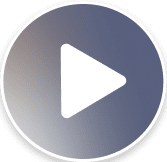
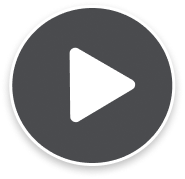
commit

diff --git a/index.html b/index.html
@@ -30,28 +30,32 @@
                 </h2>
                 <div class="tasks__list">
                     <a href="#task-1" class="tasks__list-item task__card">
-                        <img class="task__card-photo" src="img/promo/tasks/01.svg" alt="">
+                        <img class="task__card-photo unactive" src="img/promo/tasks/01.svg" alt="">
+                        <img class="task__card-photo active" src="img/promo/tasks/01-black.svg" alt="">
                         <h3 class="task__card-title">Планирование работы инспекторов строительного контроля</h3>
                         <p class="task__card-descr">
                             Участники инспекций получают уведомления о дате и месте проведения инспекций, могут посмотреть план своих инспекций за период
                         </p>
                     </a>
                     <a href="#task-2" class="tasks__list-item task__card">
-                        <img class="task__card-photo" src="img/promo/tasks/02.svg" alt="">
+                        <img class="task__card-photo unactive" src="img/promo/tasks/02.svg" alt="">
+                        <img class="task__card-photo active" src="img/promo/tasks/02-black.svg" alt="">
                         <h3 class="task__card-title">Формирование предписаний </h3>
                         <p class="task__card-descr">
                             На основании сделанных замечаний формируется предписание об устранении нарушений
                         </p>
                     </a>
                     <a href="#task-3" class="tasks__list-item task__card">
-                        <img class="task__card-photo" src="img/promo/tasks/03.svg" alt="">
+                        <img class="task__card-photo unactive" src="img/promo/tasks/03.svg" alt="">
+                        <img class="task__card-photo active" src="img/promo/tasks/03-black.svg" alt="">
                         <h3 class="task__card-title">Создание замечаний, фото/видео-фиксация нарушений</h3>
                         <p class="task__card-descr">
                             Инспектор может создать замечание, приколоть фото о нарушении, обозначить его место на чертеже. Ответственный получит уведомление. После устранения, инспектор получит уведомление о необходимости повторной проверки  
                         </p>
                     </a>
                     <a href="#task-4" class="tasks__list-item task__card">
-                        <img class="task__card-photo" src="img/promo/tasks/04.svg" alt="">
+                        <img class="task__card-photo unactive" src="img/promo/tasks/04.svg" alt="">
+                        <img class="task__card-photo active" src="img/promo/tasks/04-black.svg" alt="">
                         <h3 class="task__card-title">Связь с веб-системой Адепт: Исполнительная документация </h3>
                         <p class="task__card-descr">
                             Общая база документов, замечаний и предписаний позволяет удобно работать как с компьютера в офисе, так и с мобильного телефона на стройке
@@ -62,8 +66,11 @@
             <div class="laptop__block">
                 <img class="laptop" src="img/promo/laptop.png" alt="">
                 <div class="laptop-link">
-                    Данный модуль входит в пакет и поставляется с программой 
-                    <a target="_blank" href="https://gk-adept.ru/programmy/adept_ispolntitelnaya_dokumentaciya/">Адепт: Исполнительная документаци</a>
+                    <a target="_blank" href="https://gk-adept.ru/programmy/adept_ispolntitelnaya_dokumentaciya/">
+                        <span>Данный модуль входит в пакет и</span> <br>
+                        <span>поставляется с программой</span> <br>
+                        <span class="gold">Адепт: Исполнительная документаци</span>
+                    </a>
                 </div>
             </div>
         </section>

diff --git a/css/style.css b/css/style.css
@@ -104,11 +104,20 @@ span {
 }
 
 .promo-arrow {
+    position: relative;
+    z-index: 2;
     margin-top: 204px;
     display: block;
+    transition: .3s all;
+    cursor: pointer;
+}
+
+.promo-arrow:hover {
+    transform: translateY(20%);
 }
 
 .tasks {
+    z-index: 2;
     position: absolute;
     bottom: -105px;
     left: 50%;
@@ -141,6 +150,29 @@ span {
     background: #272727;
     padding: 20px;
     display: block;
+    transition: .4s all;
+}
+
+.task__card-photo.active {
+    display: none;
+}
+
+.task__card:hover .task__card-photo.active {
+    display: block;
+}
+
+.task__card:hover .task__card-photo.unactive {
+    display: none;
+}
+
+.task__card:hover {
+    border: 1px solid #DABA69;
+    background: linear-gradient(149deg, #DABA69 -11.6%, #AB8933 114.25%);
+}
+
+.task__card:hover .task__card-title,
+.task__card:hover .task__card-descr {
+    color: #000;
 }
 
 .task__card-title {
@@ -180,15 +212,28 @@ span {
     border-radius: 25px;
     border: 1px solid #656565;
     padding: 20px 22px 20px 40px;
-    color: var(--ffffff, #FFF);
-    font-size: 14px;
-    font-weight: 400;
-    line-height: 150%;
 }
 
 .laptop-link a {
+    color: #FFF;
+    font-size: 14px;
+    font-weight: 400;
+    line-height: 150%;
+    display: block;
+}
+
+.laptop-link a:hover span {
+    border-bottom: 1px solid #fff;
+    transition: .3s all;
+}
+
+.laptop-link .gold {
     color: #DABA69;
     font-weight: 700;
+}
+
+.laptop-link a:hover .gold {
+    border-bottom: 1px solid #DABA69;
 }
 
 @media (max-width: 1439px) {
@@ -710,6 +755,11 @@ span {
     max-width: 526px;
 }
 
+.work__item:nth-child(3) img {
+    border-radius: 20px;
+    box-shadow: 0px 8.347px 16.695px 0px rgba(50, 50, 71, 0.06), 0px 0px 8.347px 0px rgba(50, 50, 71, 0.13);
+}
+
 @media (max-width: 1339px) {
     .work__item:nth-child(3) {
         margin-bottom: 196px;
@@ -808,7 +858,7 @@ span {
         gap: 30px;
     }
     .work__item:nth-child(4) .work__show-img {
-        max-width: 60%;
+        max-width: 50%;
     }
     .work__item:nth-child(4) .work__show-img:nth-child(2) {
         margin-top: 0;
@@ -897,7 +947,7 @@ span {
 
 @media(max-width: 479px) {
     .work__item:nth-child(6) .work__show-img {
-        max-width: 60%;
+        max-width: 50%;
     }
 }
 
@@ -981,6 +1031,9 @@ span {
     .work__show__items {
         padding-left: 0;
     }
+    .work__item:nth-child(7) .bg {
+        display: none;
+    }
 }
 
 @media(max-width: 767px) {
@@ -998,7 +1051,7 @@ span {
         max-width: 100%;
     }
     .show__item-img {
-        max-width: 100%;
+        max-width: 60%;
         object-fit: contain;
     }
 }
@@ -1129,7 +1182,7 @@ span {
     position: relative;
     height: fit-content;
     display: flex;
-    margin-bottom: 40px;
+    margin-bottom: 30px;
 }
 
 .qr {
@@ -1174,7 +1227,7 @@ span {
     }
     .additional__items {
         flex-direction: column;
-        gap: 40px;
+        gap: 60px;
     }
     .qr {
         width: 130px;
@@ -1182,8 +1235,11 @@ span {
         bottom: -20px;
         right: -10px;
     }
+    .additional-img {
+        justify-content: center;
+    }
     .additional-img img {
-        max-width: 100%;
+        max-width: 80%;
         object-fit: contain;
     }
 }
@@ -1193,14 +1249,12 @@ span {
         width: 73px;
         height: 73px;
     }
-    .additional-img {
-        justify-content: center;
+    .qr {
+        right: 30px;
     }
     .additional-img img {
         max-width: 55%;
-    }
-    .qr {
-        right: 30px;
+        object-fit: contain;
     }
 }
 
@@ -1307,6 +1361,11 @@ span {
     transform: translateX(-50%);
     background: url(../img/presentation/play.png) center / contain no-repeat;
     z-index: 2;
+    transition: .4s all;
+}
+
+.play:hover {
+    background: url(../img/presentation/play-active.png) center / contain no-repeat;
 }
 
 .presentation__info {
@@ -1846,7 +1905,8 @@ span {
 
 .table__wrapper {
     display: grid;
-    grid-template-columns: repeat(7, 164px);
+    grid-template-columns: repeat(7, auto);
+    column-gap: 0;
     row-gap: 30px;
 }
 
@@ -1860,7 +1920,6 @@ span {
 .table__item:last-child div {
     padding-right: 0;
     margin-right: 0;
-    width: 140px;
 }
 
 .price-btn {
